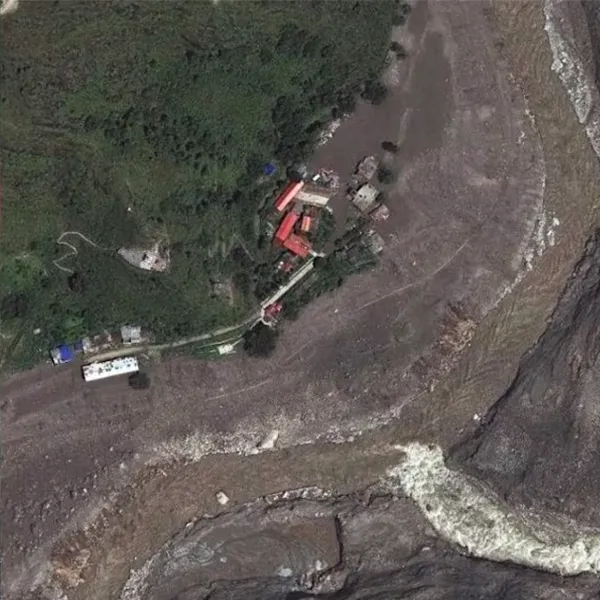
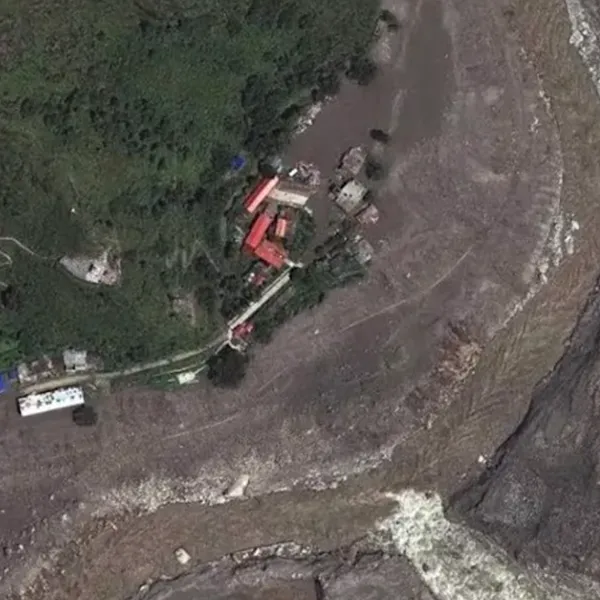
adjust before-after images alignment and aspect ratio to 1:1

diff --git a/compare-slider/compare-style.css b/compare-slider/compare-style.css
@@ -1,7 +1,7 @@
 .compare-container {
     position: relative;
     width: 600px;
-    aspect-ratio: 3 / 2;
+    aspect-ratio: 1 / 1;
     overflow: hidden;
 
     user-select: none;
